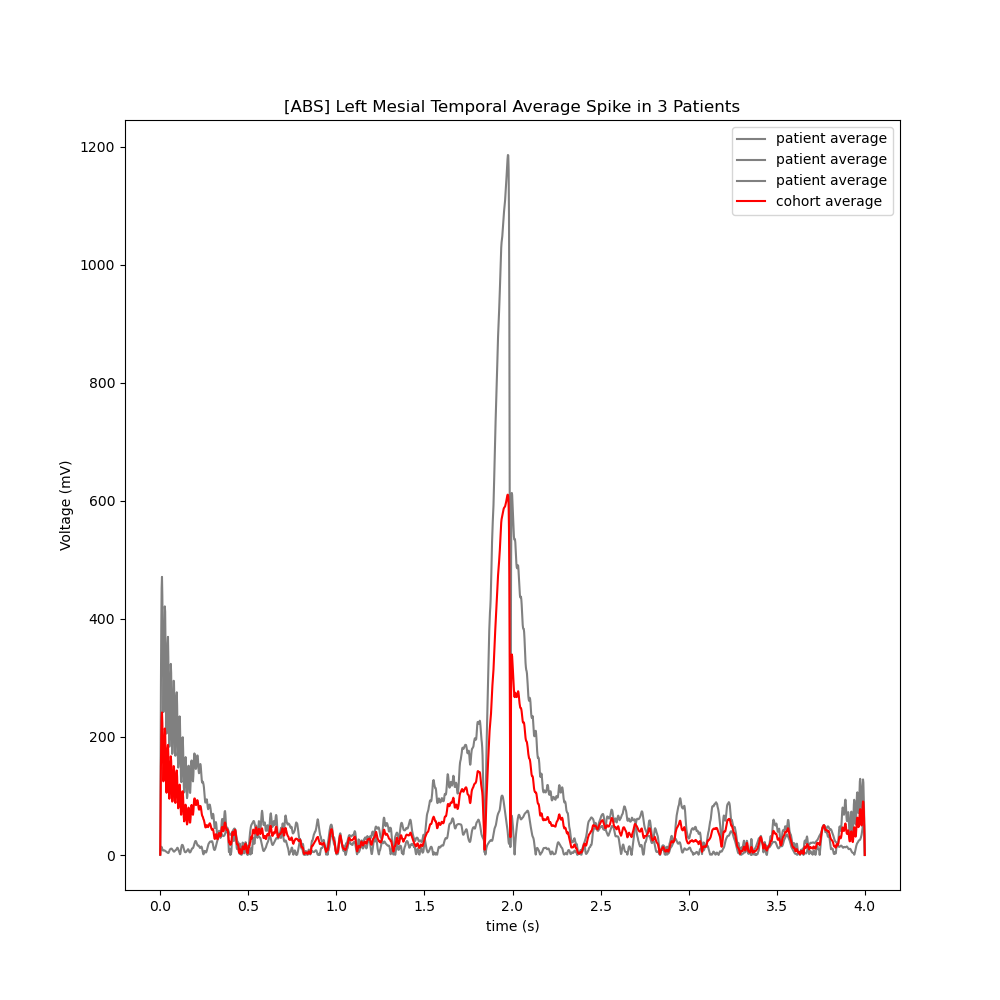
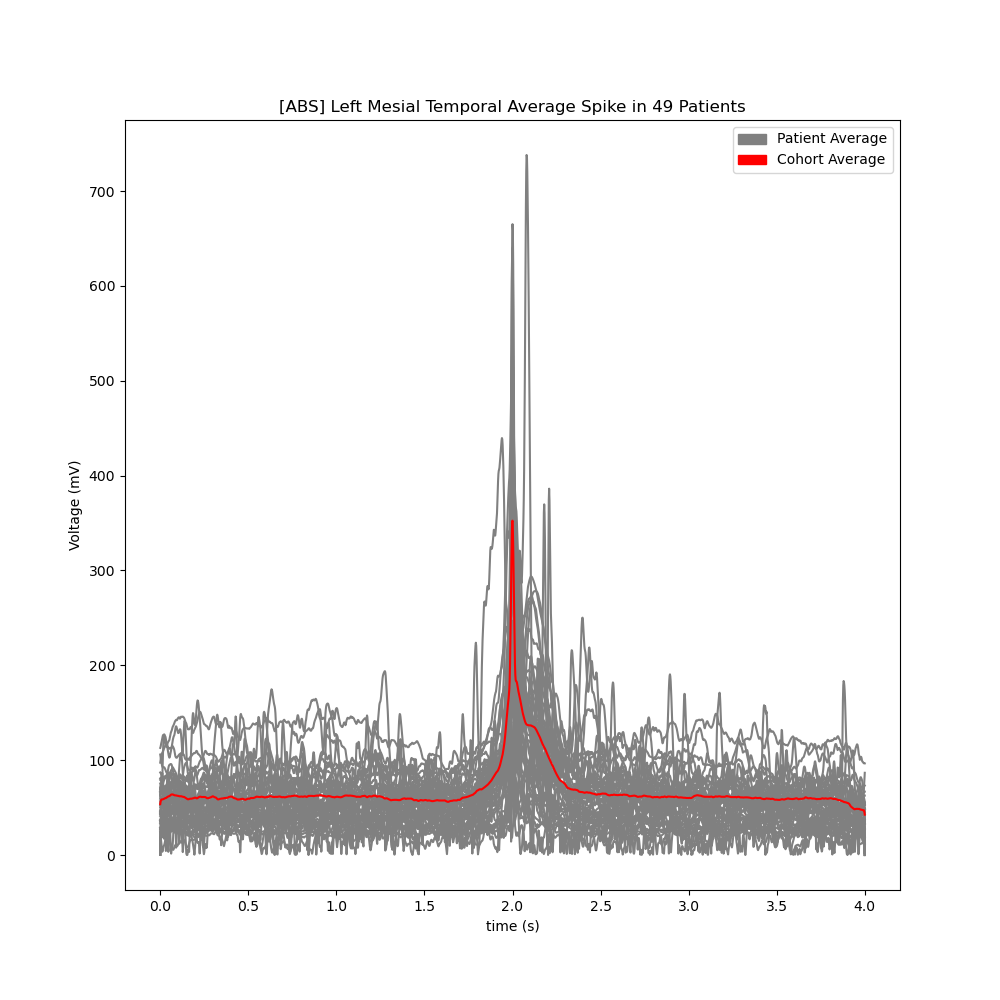
working avgwaveforms

diff --git a/HUMAN/working_feat_extract_code/functions/ied_fx_v3.py b/HUMAN/working_feat_extract_code/functions/ied_fx_v3.py
@@ -7,6 +7,7 @@ from scipy import signal as sig
 import mat73
 from scipy.io import loadmat
 import pickle as pkl
+import matplotlib.patches as mpatches
 from os import path
 
 import random
@@ -357,18 +358,19 @@ def value_basis(spike, brain_df, roi):
         idx = np.where(chs == chroi)[0]
         select_oi.append(idx)
 
-    if np.size(select_oi) != 0:
-        select_oi = np.concatenate(select_oi)
-        select_oi = [int(x) for x in select_oi]
-        values_oi = []
-        for soi in select_oi:
-            values_oi.append(spike.values[soi])
-
-        based_values = values_oi
+    values_oi = []
+    if np.size(select_oi) == 0:
+        values_oi = 0
+        print("NO MATCHES")
     else:
-        select_oi
-        based_values = 0
-        print('NO MATCHES')
+        for soi in select_oi:
+            holder = []
+            for x in soi:
+                x  = int(x)
+                holder.append(spike.values[x])
+            values_oi.append(holder)
+
+    based_values = values_oi
 
     return based_values, chnum, idx_roich
 
@@ -419,27 +421,41 @@ def downsample_to_2001(vals):
 
     return new_sample
 
-def totalavg_roiwave(idx_roich, based_vals):
+def totalavg_roiwave(idxch, vals):
     #total per ROI
-    avg_waveform = []
-
-    waveform = []
     all_waveforms = []
-    for i in range(len(idx_roich)):
-        for spikes2 in based_vals:
+    for i in range(len(idxch)):
+        waveform = []
+        for spikes2 in vals[i]:
             if len(spikes2) > 2001:
                 spike_down = downsample_to_2001(spikes2)
             else:
                 spike_down = spikes2
             spike_t = np.transpose(spike_down)
-            waveform.append((spike_t[idx_roich[i]]))
-        all_waveforms.append((waveform))
+            waveform.append(spike_t[idxch[i]])
+        all_waveforms.append(waveform)
+        
+    stacked = [x for x in all_waveforms if np.size(x) != 0]
+    all_chs_stacked = np.concatenate(stacked)
+    abs_avg_waveform = np.nanmean(np.abs(all_chs_stacked), axis=0)
+    avg_waveform =  np.nanmean(all_chs_stacked,axis=0)
 
-    concat = [x[0] for x in all_waveforms]
-    avg_waveform = np.nanmean(concat,axis=0)
-    abs_avg_waveform = np.nanmean(np.abs(concat), axis=0)
+    flip_wave = []
+    for ch in all_chs_stacked:
+        if (ch[1000] < 0):
+            flip_wave.append(np.multiply(ch, -1))
+        else: 
+            flip_wave.append(ch)
 
-    return avg_waveform, abs_avg_waveform, concat
+    flip_avgwaveform = np.nanmean(all_chs_stacked, axis=0)
+
+    avg_per_ch = []
+    abs_avg_per_ch = []
+    for waves in all_waveforms:
+        avg_per_ch.append(np.nanmean(waves, axis=0))
+        abs_avg_per_ch.append(np.nanmean(np.abs(waves), axis=0))
+
+    return avg_waveform, abs_avg_waveform, flip_avgwaveform, all_chs_stacked, flip_wave, avg_per_ch, abs_avg_per_ch
 
 def plot_avgroiwave(avg_waveform, title_label):
     time = np.linspace(0,4,2001)
@@ -454,9 +470,11 @@ def plot_avgroiwave(avg_waveform, title_label):
 
 
 def plot_avgROIwave_multipt(ptnames, data_directory, roi, title):
-    roiLmesi_vals = []
+    all_indiv_vals = []
+    all_flip_vals = []
     avgwaves = []
     abs_avgwaves = []
+    flip_avgwaves =[]
     count = 0
     for pt in ptnames:
         print(pt)
@@ -464,43 +482,62 @@ def plot_avgROIwave_multipt(ptnames, data_directory, roi, title):
         if isinstance(brain_df, pd.DataFrame) == False: #checks if RID exists
             count += 1
             continue
-
+        if spike.fs[0][-1] < 500:
+            print("low fs - skip")
+            continue
         vals, chnum, idxch = value_basis(spike, brain_df, roi)    
         if vals == 0: #checks if there is no overlap
             count += 1
             continue
-        avg_waveform,abs_avg_waveform,indiv_vals = totalavg_roiwave(idxch, vals)
+        avg_waveform, abs_avg_waveform, flip_avgwaveform, indiv_vals, flipwave, _, _ = totalavg_roiwave(idxch, vals)
         avgwaves.append(avg_waveform)
-        roiLmesi_vals.append(indiv_vals)
+        all_indiv_vals.append(indiv_vals)
+        all_flip_vals.append(flipwave) 
         abs_avgwaves.append(abs_avg_waveform)
+        flip_avgwaves.append(flip_avgwaveform)
 
-    all_chs = [x[0] for x in roiLmesi_vals]
+    all_chs = np.concatenate(all_indiv_vals)
+    flip_allchs = np.concatenate(all_flip_vals)
     total_avg = np.nanmean(all_chs, axis=0)
     abs_total_avg = np.nanmean(np.abs(all_chs), axis=0)
+    flip_total_avg = np.nanmean(flip_allchs, axis =0)
 
+    single = mpatches.Patch(color='grey', label='Patient Average') #imported matplotlib.patches -> manually creates legend since auto-detection of the legend via plt.legend() didn't work
+    cohort = mpatches.Patch(color='r', label='Cohort Average')
     samps = len(ptnames) - count
     if samps == 0:
         print('no matches!')
     time = np.linspace(0,4,len(total_avg))
-    #abs = False
     fig = plt.figure(figsize=(10,10))
     for vals in avgwaves:
-        plt.plot(time, vals, color='grey', label='patient average')
-    plt.plot(time, total_avg,'r',label ='cohort average')
+        plt.plot(time, vals, color='grey')
+    plt.plot(time, total_avg,'r')
     plt.title('{} Average Spike in {} Patients'.format(title, samps))
     plt.xlabel('time (s)')
     plt.ylabel('Voltage (mV)')
-    plt.legend()
+    plt.legend(handles=[single,cohort])   
     plt.show()
     
     #abs = True
     fig2 = plt.figure(figsize=(10,10))
     for vals in abs_avgwaves:
-        plt.plot(time, vals, color='grey', label='patient average')
-    plt.plot(time, abs_total_avg,'r',label ='cohort average')
+        plt.plot(time, vals, color='grey')
+    plt.plot(time, abs_total_avg,'r')
     plt.title('[ABS] {} Average Spike in {} Patients'.format(title, samps))
     plt.xlabel('time (s)')
     plt.ylabel('Voltage (mV)')
-    plt.legend()
+    plt.legend(handles=[single,cohort]) 
     plt.show()
-    return fig, fig2, total_avg, abs_total_avg, all_chs
+
+    #FLIP (multiply by -1)
+    fig3 = plt.figure(figsize=(10,10))
+    for vals in flip_avgwaves:
+        plt.plot(time, vals, color='grey')
+    plt.plot(time, flip_total_avg,'r')
+    plt.title('[FLIP] {} Average Spike in {} Patients'.format(title, samps))
+    plt.xlabel('time (s)')
+    plt.ylabel('Voltage (mV)')
+    plt.legend(handles=[single,cohort]) 
+    plt.show()
+
+    return fig, fig2, fig3, total_avg, abs_total_avg, flip_total_avg, all_chs, flip_allchs

diff --git a/HUMAN/working_feat_extract_code/avg_waveforms.py b/HUMAN/working_feat_extract_code/avg_waveforms.py
@@ -18,43 +18,49 @@ from ied_fx_v3 import *
 data_directory = ['/mnt/leif/littlab/users/aguilac/Projects/FC_toolbox/results/mat_output_v2', '/mnt/leif/littlab/data/Human_Data']
 pt = pd.read_csv('/mnt/leif/littlab/users/aguilac/Projects/FC_toolbox/results/mat_output_v2/pt_data/pkl_list.csv') #pkl list is our list of the transferred data (mat73 -> pickle)
 pt = pt['pt'].to_list()
-blacklist = ['HUP101' ,'HUP112','HUP115','HUP124','HUP144','HUP147','HUP149','HUP155','HUP176','HUP193','HUP194','HUP195','HUP198','HUP208','HUP212','HUP216','HUP217','HUP064','HUP071','HUP072','HUP073','HUP085','HUP094']
+blacklist = ['HUP173','HUP101' ,'HUP112','HUP115','HUP124','HUP144','HUP147','HUP149','HUP155','HUP176','HUP193','HUP194','HUP195','HUP198','HUP208','HUP212','HUP216','HUP217','HUP064','HUP071','HUP072','HUP073','HUP085','HUP094']
+#hup173 is 256 HZ. maybe we can downsample more eventually?
 ptnames = [i for i in pt if i not in blacklist] #use only the best EEG signals (>75% visually validated)
 
 #Left Mesial Temporal
 roiL_mesial = [' left entorhinal ', ' left parahippocampal ' , ' left hippocampus ', ' left amygdala ', ' left perirhinal ']
 print('Starting L Mesial')
-fig, fig_abs, total_avg, abs_total_avg, all_chs = plot_avgROIwave_multipt(ptnames, data_directory, roiL_mesial, title='Left Mesial Temporal')
+fig, fig_abs, fig_flip, total_avg, abs_total_avg, flip_total_avg, all_chs, flip_allchs = plot_avgROIwave_multipt(ptnames, data_directory, roiL_mesial, title='Left Mesial Temporal')
 save = 'L_mesial'
 fig.savefig("/mnt/leif/littlab/users/aguilac/Interictal_Spike_Analysis/HUMAN/working_feat_extract_code/spike figures/avg_waveforms_output/norm/{}_norm".format(save)) #save as jpg
 fig_abs.savefig("/mnt/leif/littlab/users/aguilac/Interictal_Spike_Analysis/HUMAN/working_feat_extract_code/spike figures/avg_waveforms_output/abs/{}_abs".format(save)) #save as jpg
+fig_abs.savefig("/mnt/leif/littlab/users/aguilac/Interictal_Spike_Analysis/HUMAN/working_feat_extract_code/spike figures/avg_waveforms_output/abs/{}_abs".format(save)) #save as jpg
+fig_flip.savefig("/mnt/leif/littlab/users/aguilac/Interictal_Spike_Analysis/HUMAN/working_feat_extract_code/spike figures/avg_waveforms_output/flip/{}_flip".format(save))
 
 #left Laterial Temporal
 roiL_lateral = [' left inferior temporal ', ' left superior temporal ', ' left middle temporal ', ' left fusiform ']
 print('Starting L Lateral')
-fig, fig_abs, total_avg, abs_total_avg, all_chs = plot_avgROIwave_multipt(ptnames, data_directory, roiL_lateral, title='Left Lateral Temporal')
+fig, fig_abs, fig_flip, total_avg, abs_total_avg, flip_total_avg, all_chs, flip_allchs = plot_avgROIwave_multipt(ptnames, data_directory, roiL_lateral, title='Left Lateral Temporal')
 
 save = 'L_lateral'
 fig.savefig("/mnt/leif/littlab/users/aguilac/Interictal_Spike_Analysis/HUMAN/working_feat_extract_code/spike figures/avg_waveforms_output/norm/{}_norm".format(save)) #save as jpg
 fig_abs.savefig("/mnt/leif/littlab/users/aguilac/Interictal_Spike_Analysis/HUMAN/working_feat_extract_code/spike figures/avg_waveforms_output/abs/{}_abs".format(save)) #save as jpg
+fig_flip.savefig("/mnt/leif/littlab/users/aguilac/Interictal_Spike_Analysis/HUMAN/working_feat_extract_code/spike figures/avg_waveforms_output/flip/{}_flip".format(save))
 
 #Right Mesial
 roiR_mesial = [' right entorhinal ', ' right parahippocampal ', ' right hippocampus ', ' right amygdala ', ' right perirhinal ']
 print('Starting R Mesial')
-fig, fig_abs, total_avg, abs_total_avg, all_chs = plot_avgROIwave_multipt(ptnames, data_directory, roiR_mesial, title='Right Mesial Temporal')
+fig, fig_abs, fig_flip, total_avg, abs_total_avg, flip_total_avg, all_chs, flip_allchs = plot_avgROIwave_multipt(ptnames, data_directory, roiR_mesial, title='Right Mesial Temporal')
 
 save = 'R_mesial'
 fig.savefig("/mnt/leif/littlab/users/aguilac/Interictal_Spike_Analysis/HUMAN/working_feat_extract_code/spike figures/avg_waveforms_output/norm/{}_norm".format(save)) #save as jpg
 fig_abs.savefig("/mnt/leif/littlab/users/aguilac/Interictal_Spike_Analysis/HUMAN/working_feat_extract_code/spike figures/avg_waveforms_output/abs/{}_abs".format(save)) #save as jpg
+fig_flip.savefig("/mnt/leif/littlab/users/aguilac/Interictal_Spike_Analysis/HUMAN/working_feat_extract_code/spike figures/avg_waveforms_output/flip/{}_flip".format(save))
 
 #Right Lateral
 roiR_lateral = [' right inferior temporal ', ' right superior temporal ', ' right middle temporal ', ' right fusiform ']
 print('Starting R Lateral')
-fig, fig_abs, total_avg, abs_total_avg, all_chs = plot_avgROIwave_multipt(ptnames, data_directory, roiR_lateral, title='Right Lateral Temporal')
+fig, fig_abs, fig_flip, total_avg, abs_total_avg, flip_total_avg, all_chs, flip_allchs = plot_avgROIwave_multipt(ptnames, data_directory, roiR_lateral, title='Right Lateral Temporal')
 
 save = 'R_lateral'
 fig.savefig("/mnt/leif/littlab/users/aguilac/Interictal_Spike_Analysis/HUMAN/working_feat_extract_code/spike figures/avg_waveforms_output/norm/{}_norm".format(save)) #save as jpg
 fig_abs.savefig("/mnt/leif/littlab/users/aguilac/Interictal_Spike_Analysis/HUMAN/working_feat_extract_code/spike figures/avg_waveforms_output/abs/{}_abs".format(save)) #save as jpg
+fig_flip.savefig("/mnt/leif/littlab/users/aguilac/Interictal_Spike_Analysis/HUMAN/working_feat_extract_code/spike figures/avg_waveforms_output/flip/{}_flip".format(save))
 
 
 

diff --git a/HUMAN/working_feat_extract_code/region_distribution.py b/HUMAN/working_feat_extract_code/region_distribution.py
@@ -1,0 +1,48 @@
+#set up environment
+import pickle
+import pickle as pkl
+import numpy as np
+import pandas as pd
+import matplotlib.pyplot as plt
+from scipy import signal as sig
+from scipy.io import loadmat, savemat
+import warnings
+warnings.filterwarnings('ignore')
+#get all functions 
+import sys, os
+code_path = os.path.dirname('/mnt/leif/littlab/users/aguilac/Interictal_Spike_Analysis/HUMAN/working_feat_extract_code/functions/')
+sys.path.append(code_path)
+from ied_fx_v3 import *
+
+#Setup ptnames and directory
+data_directory = ['/mnt/leif/littlab/users/aguilac/Projects/FC_toolbox/results/mat_output_v2', '/mnt/leif/littlab/data/Human_Data']
+pt = pd.read_csv('/mnt/leif/littlab/users/aguilac/Projects/FC_toolbox/results/mat_output_v2/pt_data/pkl_list.csv') #pkl list is our list of the transferred data (mat73 -> pickle)
+pt = pt['pt'].to_list()
+blacklist = ['HUP101' ,'HUP112','HUP115','HUP124','HUP144','HUP147','HUP149','HUP155','HUP176','HUP193','HUP194','HUP195','HUP198','HUP208','HUP212','HUP216','HUP217','HUP064','HUP071','HUP072','HUP073','HUP085','HUP094']
+ptnames = [i for i in pt if i not in blacklist] #use only the best EEG signals (>75% visually validated)
+
+#
+roiL_mesial = [' left entorhinal ', ' left parahippocampal ' , ' left hippocampus ', ' left amygdala ', ' left perirhinal ']
+roiL_lateral = [' left inferior temporal ', ' left superior temporal ', ' left middle temporal ', ' left fusiform ']
+roiR_mesial = [' right entorhinal ', ' right parahippocampal ', ' right hippocampus ', ' right amygdala ', ' right perirhinal ']
+roiR_lateral = [' right inferior temporal ', ' right superior temporal ', ' right middle temporal ', ' right fusiform ']
+emptylabel = ['EmptyLabel','NaN']
+L_OC = [' left inferior parietal ', ' left postcentral ',' left cerebellum exterior ', ' left superior parietal ', ' left precentral ', ' left rostral middle frontal ', ' left pars triangularis ', ' left supramarginal ', ' left insula ', ' left caudal middle frontal ', ' left putamen ', ' left posterior cingulate ', ' left caudate ', ' left lateral orbitofrontal ', ' left lateral occipital ', ' left cuneus ']
+R_OC = [' right inferior parietal ', ' right postcentral ',' right cerebellum exterior ', ' right superior parietal ', ' right precentral ', ' right rostral middle frontal ', ' right pars triangularis ', ' right supramarginal ', ' right insula ', ' right caudal middle frontal ', ' right putamen ', ' right posterior cingulate ', ' right caudate ', ' right lateral orbitofrontal ', ' right lateral occipital ', ' right cuneus ']
+roilist = [roiL_mesial, roiL_lateral, roiR_mesial, roiR_lateral, L_OC, R_OC, emptylabel]
+
+
+for pt in ptnames:
+    spike, brain_df, ids = load_ptall(pt, data_directory)
+    if isinstance(brain_df, pd.DataFrame) == False: #checks if RID exists
+        count += 1
+        continue
+    if spike.fs[0][-1] < 500:
+        print("low fs - skip")
+        continue
+    for roi in roilist:
+        vals, chnum, idxch = value_basis(spike, brain_df, roi)    
+        if vals == 0: #checks if there is no overlap
+            count += 1
+            continue
+        _, _, _, indiv_vals, flipwave, _, _ = totalavg_roiwave(idxch, vals)
